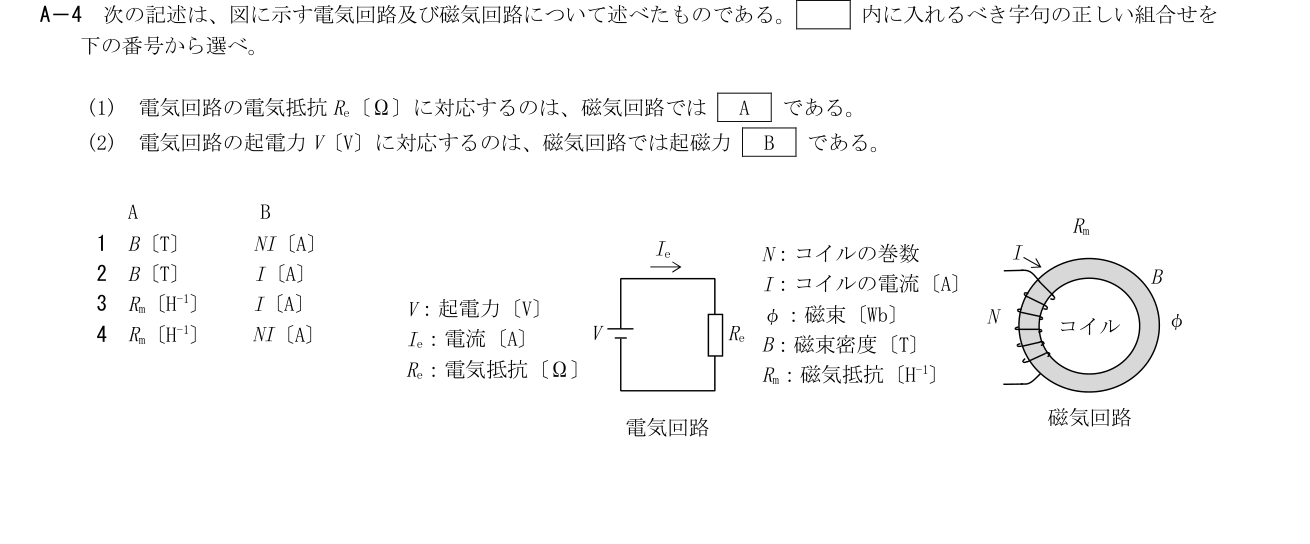
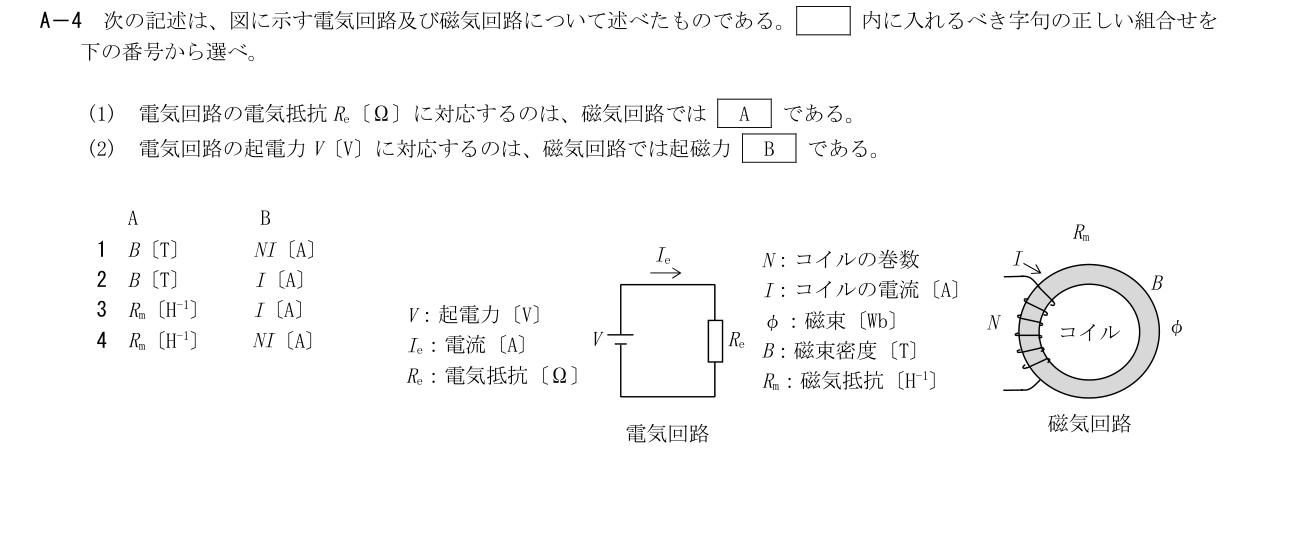
Update qualification count checks and preserve complete radio source crops

diff --git a/__tests__/native580-integration.test.ts b/__tests__/native580-integration.test.ts
@@ -28,7 +28,7 @@ const holds=new Set(['radio21-amateur1-2026-05-kogaku-q19','radio21-riku-tech2-2
 const all=[...avi,...am,...sea,...riku,...am2,...radar];
 const cases=[{exam:'riku-tech2',qs:riku,stored:190,ready:189,periodCounts:[94,95],sessions:['houki','kiso','kogaku-a','kogaku-b']},{exam:'amateur2',qs:am2,stored:110,ready:109,periodCounts:[54,55],sessions:['houki','kogaku']},{exam:'maritime-radar',qs:radar,stored:48,ready:48,periodCounts:[24,24],sessions:['houki','kogaku']}] as const;
 describe('581-ready combined candidate integration',()=>{
- it('retains584 originals/581 ready, three exact HOLDs and1000 raw versus993 ready grading cells',()=>{expect(all).toHaveLength(584);expect(new Set(all.map(q=>q.id)).size).toBe(584);const ready=all.filter(isPracticeReadyQuestion);expect(ready).toHaveLength(581);expect(new Set(all.filter(q=>!isPracticeReadyQuestion(q)).map(q=>q.id))).toEqual(holds);expect(getRegisteredExamCodes()).toHaveLength(75);expect(all.reduce((n,q)=>n+(q.nativeB?.slots.length??1),0)).toBe(1000);expect(ready.reduce((n,q)=>n+(q.nativeB?.slots.length??1),0)).toBe(993);});
+ it('retains584 originals/581 ready, three exact HOLDs and1000 raw versus993 ready grading cells',()=>{expect(all).toHaveLength(584);expect(new Set(all.map(q=>q.id)).size).toBe(584);const ready=all.filter(isPracticeReadyQuestion);expect(ready).toHaveLength(581);expect(new Set(all.filter(q=>!isPracticeReadyQuestion(q)).map(q=>q.id))).toEqual(holds);expect(getRegisteredExamCodes()).toHaveLength(76);expect(all.reduce((n,q)=>n+(q.nativeB?.slots.length??1),0)).toBe(1000);expect(ready.reduce((n,q)=>n+(q.nativeB?.slots.length??1),0)).toBe(993);});
  for(const {exam,qs,stored,ready,periodCounts} of cases){
   it(`${exam}: preserves exact normalized final data and every source asset`,async()=>{
    expect(runtimeFingerprint(qs)).toBe(integrationOracle.producers[exam].normalizedRuntimeSha256);expect(qs).toHaveLength(stored);expect(await getQuestionsForExam(exam)).toEqual(qs);expect(QUESTIONS_BY_EXAM[exam]).toEqual(qs.filter(isPracticeReadyQuestion));expect(ALL_EXAM_CODES).not.toContain(exam);expect(qs.every(q=>q.exam===exam&&q.year===2026)).toBe(true);

diff --git a/__tests__/native235-integration.test.ts b/__tests__/native235-integration.test.ts
@@ -24,7 +24,7 @@ import { POST as duePOST } from '@/app/api/review/due/route';
 const hold='radio21-amateur1-2026-05-kogaku-q19';
 const cases=[{exam:'amateur1',qs:am,stored:120,ready:119,periodCounts:[59,60]},{exam:'maritime-special1',qs:sea,stored:48,ready:48,periodCounts:[24,24]}] as const;
 describe('235-ready separated candidate integration',()=>{
- it('keeps236 stored originals,235 ready, one exact protected HOLD and67 registered exam codes',()=>{const all=[...avi,...am,...sea];expect(all).toHaveLength(236);expect(new Set(all.map(q=>q.id)).size).toBe(236);expect(all.filter(isPracticeReadyQuestion)).toHaveLength(235);expect(all.filter(q=>!isPracticeReadyQuestion(q)).map(q=>q.id)).toEqual([hold]);expect(getRegisteredExamCodes()).toHaveLength(75);});
+ it('keeps236 stored originals,235 ready, one exact protected HOLD and67 registered exam codes',()=>{const all=[...avi,...am,...sea];expect(all).toHaveLength(236);expect(new Set(all.map(q=>q.id)).size).toBe(236);expect(all.filter(isPracticeReadyQuestion)).toHaveLength(235);expect(all.filter(q=>!isPracticeReadyQuestion(q)).map(q=>q.id)).toEqual([hold]);expect(getRegisteredExamCodes()).toHaveLength(76);});
  for(const {exam,qs,stored,ready,periodCounts} of cases){
   it(`${exam}: preserves exact normalized final data and every source asset`,async()=>{
    expect(runtimeFingerprint(qs)).toBe(integrationOracle.producers[exam].normalizedRuntimeSha256);expect(qs).toHaveLength(stored);expect(await getQuestionsForExam(exam)).toEqual(qs);expect(QUESTIONS_BY_EXAM[exam]).toEqual(qs.filter(isPracticeReadyQuestion));expect(ALL_EXAM_CODES).not.toContain(exam);expect(qs.every(q=>q.exam===exam&&q.year===2026)).toBe(true);

diff --git a/__tests__/aviation68-integration.test.ts b/__tests__/aviation68-integration.test.ts
@@ -27,7 +27,7 @@ const exam='aviation-comm';
 describe('aviation communication68 local registration candidate',()=>{
  it('registers exactly68 ready originals through eager/lazy/strict/home without changing the IPA-only list',async()=>{
   expect(questions).toHaveLength(68);expect(new Set(questions.map(q=>q.id)).size).toBe(68);
-  expect(getRegisteredExamCodes()).toHaveLength(75);expect(getRegisteredExamCodes()).toContain(exam);expect(ALL_EXAM_CODES).not.toContain(exam);
+  expect(getRegisteredExamCodes()).toHaveLength(76);expect(getRegisteredExamCodes()).toContain(exam);expect(ALL_EXAM_CODES).not.toContain(exam);
   expect(await getQuestionsForExam(exam)).toEqual(questions);expect(QUESTIONS_BY_EXAM[exam]).toEqual(questions);expect(ALL_QUESTIONS.filter(q=>q.exam===exam)).toEqual(questions);expect(getQuestionsByExamStrict(exam)).toEqual(questions);expect(questions.every(isPracticeReadyQuestion)).toBe(true);
   const home=getHomeDirectory().flatMap(d=>[...d.featured,...d.compact]).find(q=>q.key===exam)!;expect(home.questionCount).toBe(68);expect(home.periodLabel).toBe('2期分');expect(home.href).toBe('/aviation-comm');
  });

diff --git a/__tests__/native166-integration.test.ts b/__tests__/native166-integration.test.ts
@@ -24,7 +24,7 @@ const pools={maritime3:MARITIME3_QUESTIONS,'land-special2':LAND_SPECIAL2_QUESTIO
 const all=Object.values(pools).flat();
 describe('separate next166 local candidate integration',()=>{
  it('connects exactly166 original accepted questions through all current loaders and strict practice pools',async()=>{
-  expect(all).toHaveLength(166);expect(new Set(all.map(q=>q.id)).size).toBe(166);expect(getRegisteredExamCodes()).toHaveLength(75);
+  expect(all).toHaveLength(166);expect(new Set(all.map(q=>q.id)).size).toBe(166);expect(getRegisteredExamCodes()).toHaveLength(76);
   for(const [exam,qs] of Object.entries(pools)){
    const code=exam as keyof typeof pools;expect(await getQuestionsForExam(code)).toEqual(qs);expect(QUESTIONS_BY_EXAM[code]).toEqual(qs);expect(getQuestionsByExamStrict(code)).toEqual(qs);expect(ALL_QUESTIONS.filter(q=>q.exam===code)).toEqual(qs);expect(qs.every(isPracticeReadyQuestion)).toBe(true);expect(ALL_EXAM_CODES).not.toContain(code);expect(getQualificationByExamCode(code)?.status).toBe('live');expect(defaultPracticeSession(code)).toBe('houki');
   }

diff --git a/__tests__/sea2-integration.test.tsx b/__tests__/sea2-integration.test.tsx
@@ -33,7 +33,7 @@ describe("Sea2 historical original-only candidate", () => {
     expect((await getQuestionsForExam(exam)).filter(isPracticeReadyQuestion)).toEqual(ready);
     expect(getQuestionsByExamStrict(exam)).toEqual(ready);
     expect(new Set(await getPoolIds({ exam, mode: "random" }))).toEqual(new Set(ready.map(q => q.id)));
-    expect(getRegisteredExamCodes()).toHaveLength(75); expect(ALL_EXAM_CODES).not.toContain(exam);
+    expect(getRegisteredExamCodes()).toHaveLength(76); expect(ALL_EXAM_CODES).not.toContain(exam);
     expect(EXAM_CONFIGS[exam].sessions.map(s => s.expectedQuestions)).toEqual([12,12]);
     expect(defaultPracticeSession(exam)).toBe("houki");
     const home = getHomeDirectory().flatMap(d => [...d.featured,...d.compact]).find(q => q.key === exam)!;

diff --git a/__tests__/maritime2-integration.test.ts b/__tests__/maritime2-integration.test.ts
@@ -26,7 +26,7 @@ describe("maritime2 registered original-only candidate", () => {
     expect(await getQuestionsForExam(exam)).toEqual(stored);
     expect(getQuestionsByExamStrict(exam)).toEqual(ready);
     expect(new Set(await getPoolIds({exam,mode:"random"}))).toEqual(new Set(ready.map(q=>q.id)));
-    expect(getRegisteredExamCodes()).toHaveLength(75);expect(ALL_EXAM_CODES).not.toContain(exam);
+    expect(getRegisteredExamCodes()).toHaveLength(76);expect(ALL_EXAM_CODES).not.toContain(exam);
     expect(getQuestionsByExamStrict("kai-toku2")).toHaveLength(48);
     expect(defaultPracticeSession(exam)).toBe("kiso");
     expect(EXAM_CONFIGS[exam].sessions.map(s=>s.expectedQuestions)).toEqual([25,25,25,20]);

diff --git a/__tests__/native338-integration.test.ts b/__tests__/native338-integration.test.ts
@@ -24,7 +24,7 @@ describe("three qualification native338 integration", () => {
   it("registers the same338 records through eager, lazy and practice routes", async () => {
     expect(combined).toHaveLength(338);
     expect(new Set(combined.map(q => q.id)).size).toBe(338);
-    expect(getRegisteredExamCodes()).toHaveLength(75);
+    expect(getRegisteredExamCodes()).toHaveLength(76);
     for (const [exam, questions] of Object.entries(pools)) {
       const code = exam as keyof typeof pools;
       expect(getRegisteredExamCodes()).toContain(code);

diff --git a/__tests__/questions/get-questions.test.ts b/__tests__/questions/get-questions.test.ts
@@ -93,7 +93,7 @@ describe("getRegisteredExamCodes", () => {
     expect(codes).toContain("riku-tech1");
     expect(codes).toContain("maritime4");
     expect(codes).toContain("aviation-comm");
-    expect(codes.length).toBe(75);
+    expect(codes.length).toBe(76);
     expect(codes).toContain("ahaki-anma");
     expect(codes).toContain("ahaki-hari-kyu");
     // 重複なし
